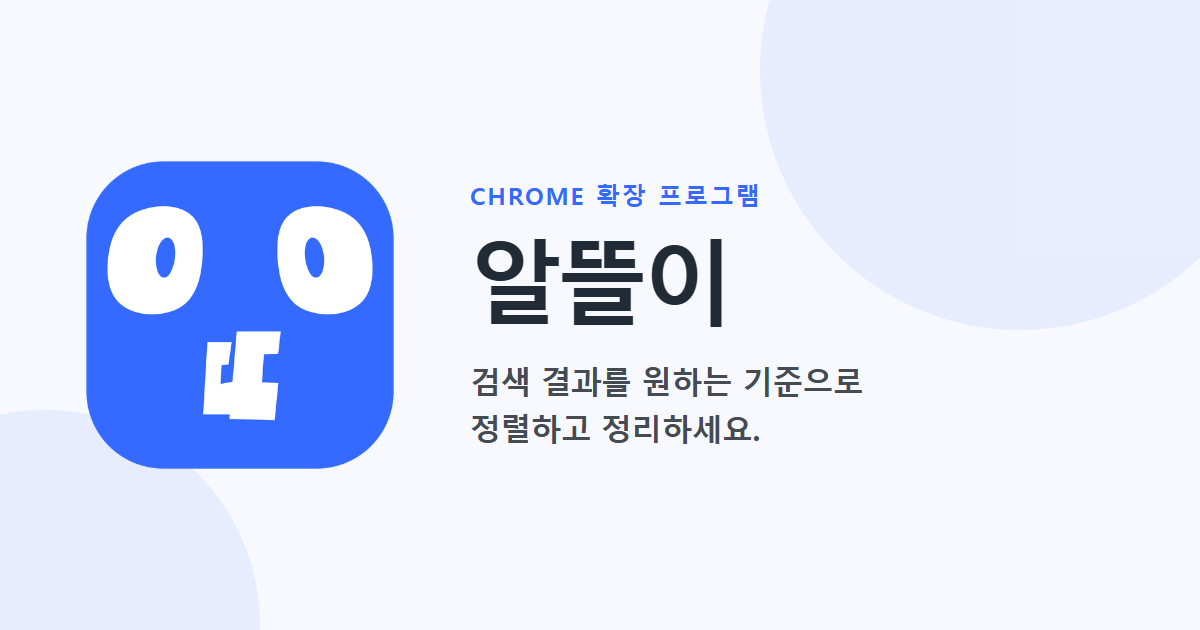
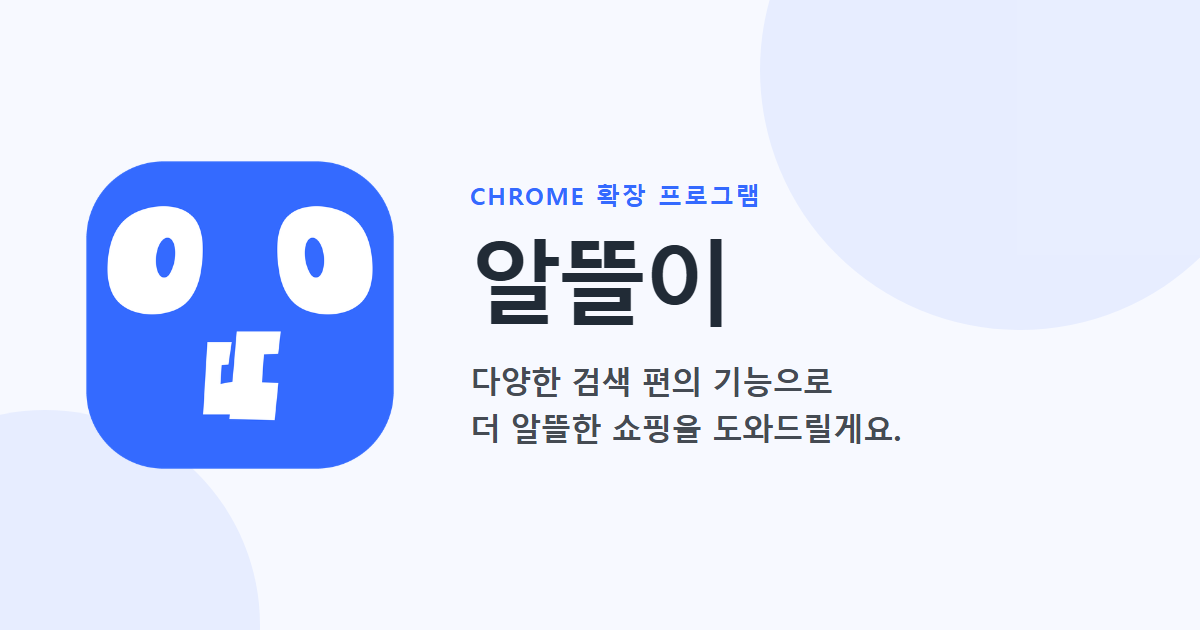
Refresh hero copy and fix 404 Korean line breaks
Replace the awkward hero tagline across the site and OG assets, and keep 404 headings from splitting mid-word on narrow screens.

Changed region(s): [[0.37, 0.573, 0.74, 0.7238]]

diff --git a/web/public/index.html b/web/public/index.html
@@ -15,12 +15,12 @@
     <meta property="og:image" content="https://altteuri.vercel.app/og-image.png">
     <meta property="og:image:width" content="1200">
     <meta property="og:image:height" content="630">
-    <meta property="og:image:alt" content="파란 알뜰이 아이콘과 검색 결과를 원하는 기준으로 정렬하고 정리하세요 문구">
+    <meta property="og:image:alt" content="파란 알뜰이 아이콘과 다양한 검색 편의 기능으로 더 알뜰한 쇼핑을 도와드릴게요 문구">
     <meta name="twitter:card" content="summary_large_image">
     <meta name="twitter:title" content="알뜰이 · Chrome 확장 프로그램">
     <meta name="twitter:description" content="쿠팡 검색 결과를 단위가격·할인율·가격순으로 정렬하고, 원하는 항목만 표시하세요.">
     <meta name="twitter:image" content="https://altteuri.vercel.app/og-image.png">
-    <meta name="twitter:image:alt" content="파란 알뜰이 아이콘과 검색 결과를 원하는 기준으로 정렬하고 정리하세요 문구">
+    <meta name="twitter:image:alt" content="파란 알뜰이 아이콘과 다양한 검색 편의 기능으로 더 알뜰한 쇼핑을 도와드릴게요 문구">
     <title>알뜰이 · Chrome 확장 프로그램</title>
     <link rel="canonical" href="https://altteuri.vercel.app/">
     <link rel="icon" href="/favicon.ico" sizes="any">
@@ -57,7 +57,7 @@
         <img class="hero-icon" src="/icon128.png" alt="알뜰이 아이콘" width="88" height="88">
         <p class="eyebrow">Chrome 확장 프로그램</p>
         <h1>알뜰이</h1>
-        <p class="hero-copy">검색 결과를 원하는 기준으로 정렬하고 정리하세요.</p>
+        <p class="hero-copy">다양한 검색 편의 기능으로 더 알뜰한 쇼핑을 도와드릴게요.</p>
         <a class="primary-link" href="https://github.com/intJoon/altteuri">GitHub에서 보기</a>
       </div>
     </header>

diff --git a/web/public/styles.css b/web/public/styles.css
@@ -138,7 +138,7 @@ h1 {
 }
 
 .hero-copy {
-  max-width: 620px;
+  max-width: 36em;
   margin: 22px 0 32px;
   color: var(--text);
   font-size: clamp(18px, 2.2vw, 22px);
@@ -1267,12 +1267,14 @@ footer a:hover {
 }
 
 .not-found h1 {
-  font-size: clamp(32px, 7vw, 52px);
+  font-size: clamp(26px, 6vw, 40px);
+  word-break: keep-all;
 }
 
 .not-found > p:not(.eyebrow) {
   margin: 18px 0 28px;
   color: var(--muted);
+  word-break: keep-all;
 }
 
 .not-found-actions {

diff --git a/legal.html b/legal.html
@@ -15,12 +15,12 @@
   <meta property="og:image" content="https://altteuri.vercel.app/og-image.png">
   <meta property="og:image:width" content="1200">
   <meta property="og:image:height" content="630">
-  <meta property="og:image:alt" content="파란 알뜰이 아이콘과 검색 결과를 원하는 기준으로 정렬하고 정리하세요 문구">
+  <meta property="og:image:alt" content="파란 알뜰이 아이콘과 다양한 검색 편의 기능으로 더 알뜰한 쇼핑을 도와드릴게요 문구">
   <meta name="twitter:card" content="summary_large_image">
   <meta name="twitter:title" content="알뜰이 · 개인정보처리방침 및 이용약관">
   <meta name="twitter:description" content="알뜰이 Chrome 확장 프로그램의 개인정보처리방침과 이용약관">
   <meta name="twitter:image" content="https://altteuri.vercel.app/og-image.png">
-  <meta name="twitter:image:alt" content="파란 알뜰이 아이콘과 검색 결과를 원하는 기준으로 정렬하고 정리하세요 문구">
+  <meta name="twitter:image:alt" content="파란 알뜰이 아이콘과 다양한 검색 편의 기능으로 더 알뜰한 쇼핑을 도와드릴게요 문구">
   <title>알뜰이 · 개인정보처리방침 및 이용약관</title>
   <link rel="canonical" href="https://altteuri.vercel.app/legal.html">
   <link rel="icon" href="/favicon.ico" sizes="any">

diff --git a/web/public/legal.html b/web/public/legal.html
@@ -15,12 +15,12 @@
   <meta property="og:image" content="https://altteuri.vercel.app/og-image.png">
   <meta property="og:image:width" content="1200">
   <meta property="og:image:height" content="630">
-  <meta property="og:image:alt" content="파란 알뜰이 아이콘과 검색 결과를 원하는 기준으로 정렬하고 정리하세요 문구">
+  <meta property="og:image:alt" content="파란 알뜰이 아이콘과 다양한 검색 편의 기능으로 더 알뜰한 쇼핑을 도와드릴게요 문구">
   <meta name="twitter:card" content="summary_large_image">
   <meta name="twitter:title" content="알뜰이 · 개인정보처리방침 및 이용약관">
   <meta name="twitter:description" content="알뜰이 Chrome 확장 프로그램의 개인정보처리방침과 이용약관">
   <meta name="twitter:image" content="https://altteuri.vercel.app/og-image.png">
-  <meta name="twitter:image:alt" content="파란 알뜰이 아이콘과 검색 결과를 원하는 기준으로 정렬하고 정리하세요 문구">
+  <meta name="twitter:image:alt" content="파란 알뜰이 아이콘과 다양한 검색 편의 기능으로 더 알뜰한 쇼핑을 도와드릴게요 문구">
   <title>알뜰이 · 개인정보처리방침 및 이용약관</title>
   <link rel="canonical" href="https://altteuri.vercel.app/legal.html">
   <link rel="icon" href="/favicon.ico" sizes="any">

diff --git a/tools/og-image.html b/tools/og-image.html
@@ -35,7 +35,7 @@
   <main>
     <p class="eyebrow">CHROME 확장 프로그램</p>
     <h1>알뜰이</h1>
-    <p class="copy">검색 결과를 원하는 기준으로<br>정렬하고 정리하세요.</p>
+    <p class="copy">다양한 검색 편의 기능으로<br>더 알뜰한 쇼핑을 도와드릴게요.</p>
   </main>
 </body>
 </html>